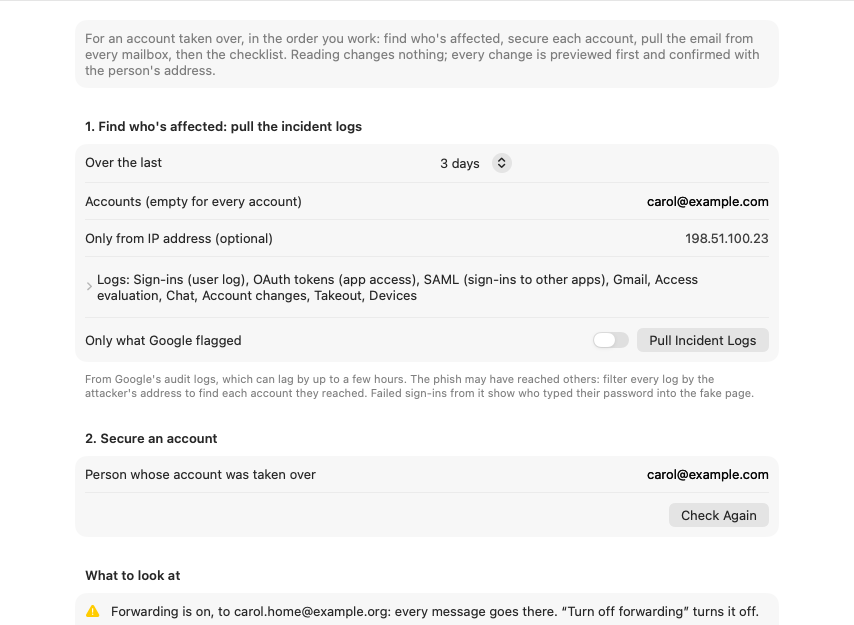
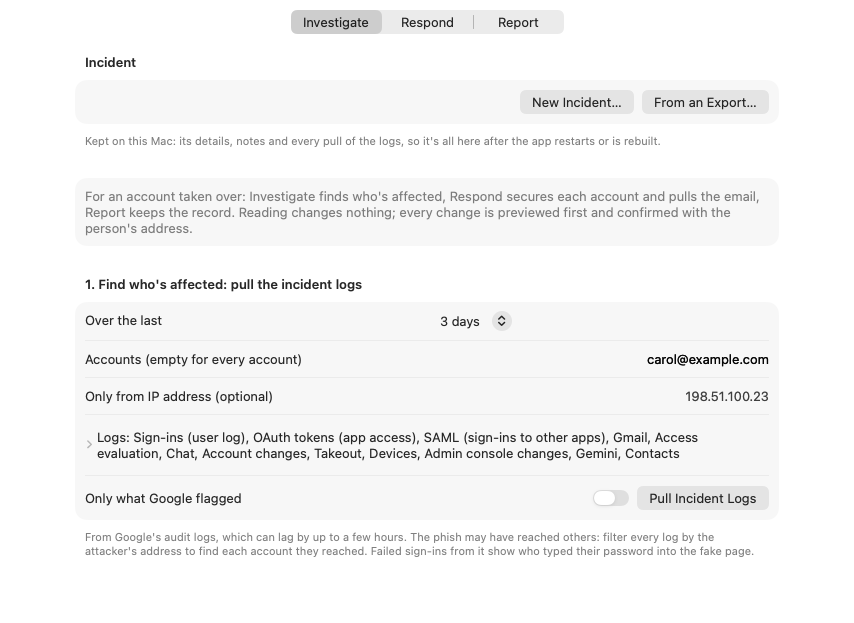
docs: refresh the Incident screenshot from CI (the tabs)
From PR #108's CI run. Read the logs' image stays: CI's capture no
longer scrolls to the findings, and the reader is changing in the
pinwheel fix.

diff --git a/README.md b/README.md
@@ -109,7 +109,7 @@ a switch, with what you tick undone, once you've typed the person's address.
 
 | Incident | Read the logs |
 |---|---|
-| ![Incident: the order to work in, the logs to pull, then the account to secure](docs/screenshots/compromised.png) | ![Read the logs: each finding in words, with its fix as a button: secure the person, or pull the email from every mailbox](docs/screenshots/compromised-reading.png) |
+| ![Incident: its Investigate, Respond and Report tabs, the incident kept on this Mac, and the logs to pull](docs/screenshots/compromised.png) | ![Read the logs: each finding in words, with its fix as a button: secure the person, or pull the email from every mailbox](docs/screenshots/compromised-reading.png) |
 
 Phishing: one email out of every mailbox. Find Copies lists who has it, by its Message-ID, and changes nothing;
 List Recipients reads who the sender sent it to, outside the domain first; Trash shows each mailbox it will move
